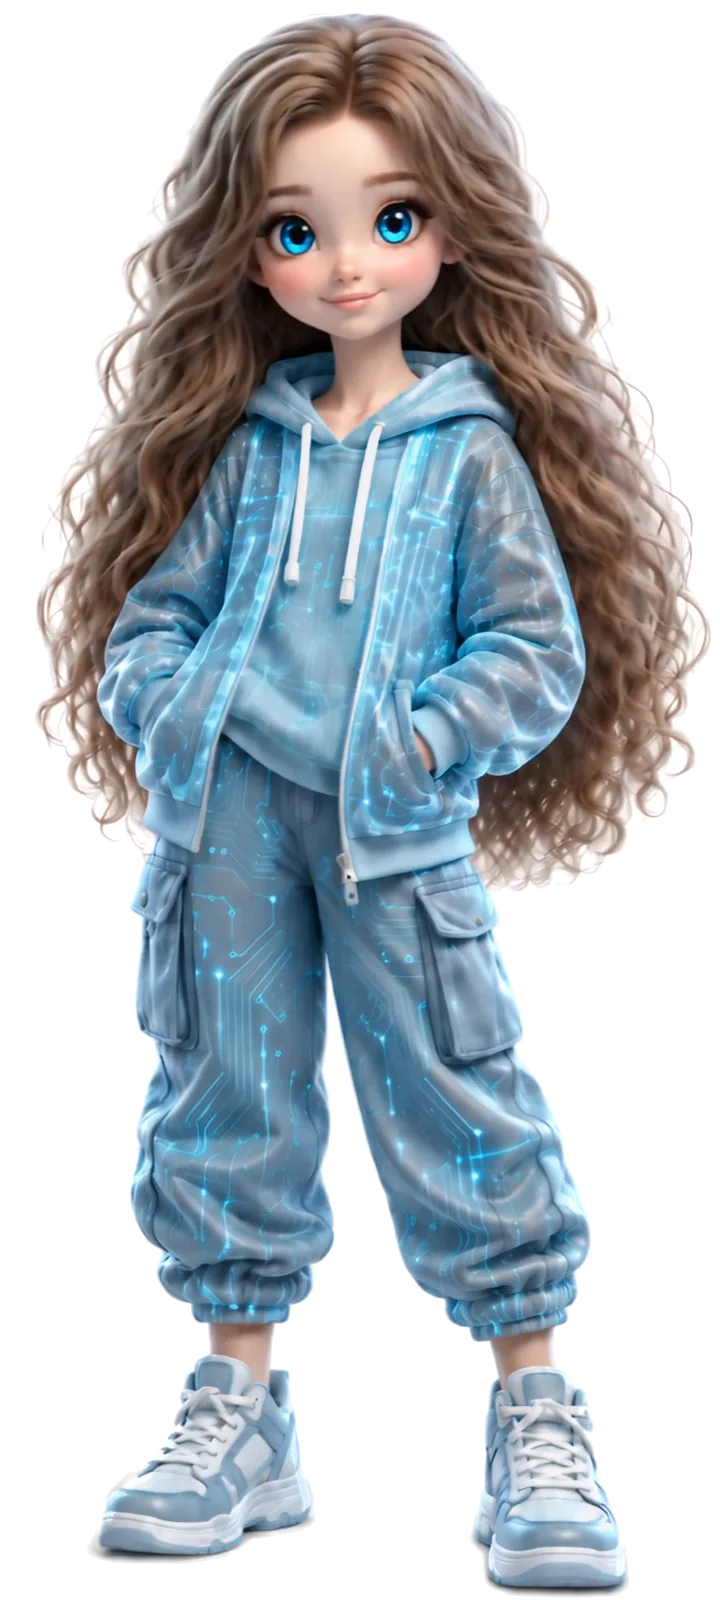
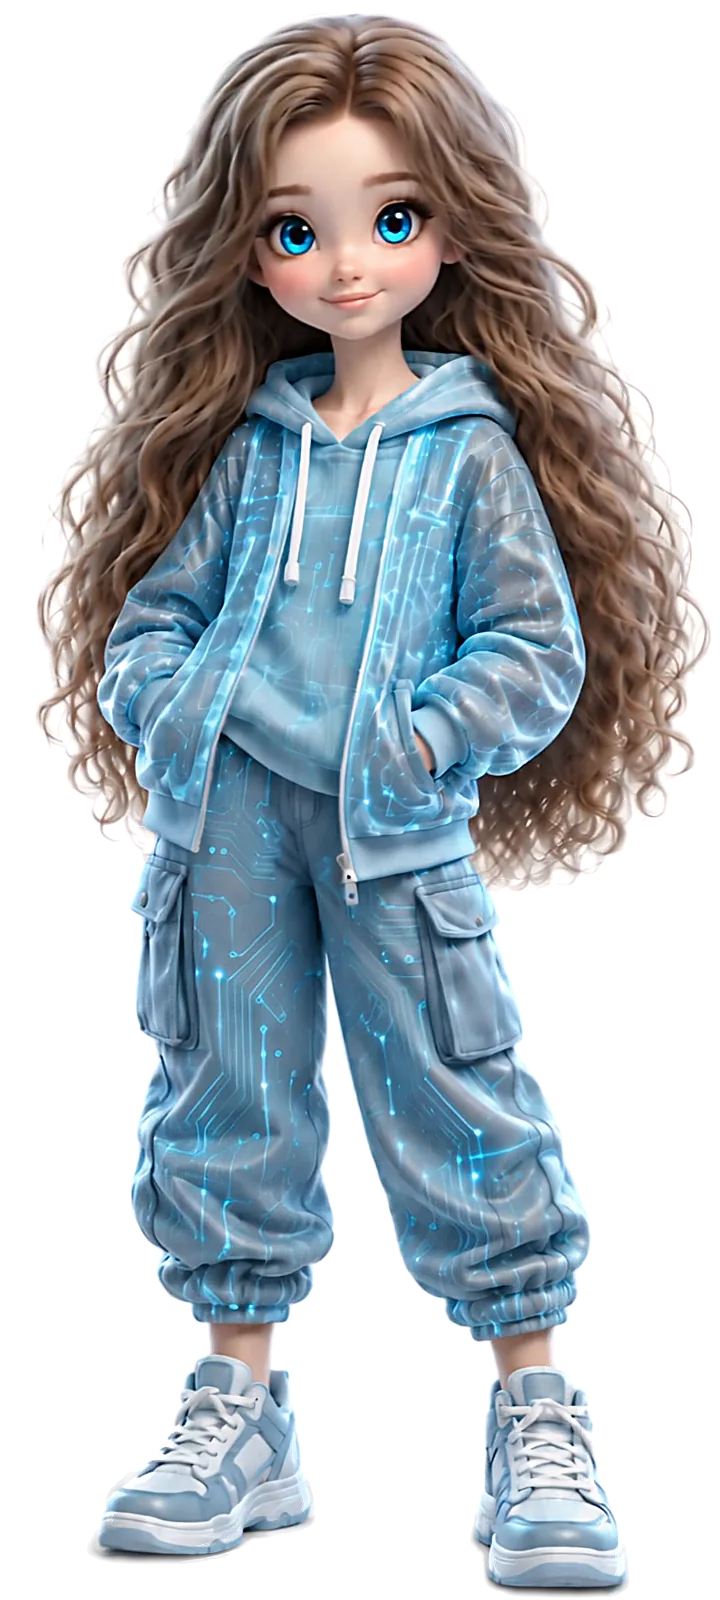
Обновление 02.10 08:10 МСК

diff --git a/index.html b/index.html
@@ -205,11 +205,14 @@
   .первый-экран--разворот .первый-экран__картинка img { object-fit: contain; object-position: bottom center;
     height: calc(100% - 5.25em); }
 }
-/* Холст слежения лежит ровно поверх картинки и повторяет её посадку. */
+/* Слои слежения лежат ровно поверх картинки и повторяют её посадку. */
 .первый-экран--разворот .первый-экран__картинка { position: relative; }
-.первый-экран--разворот .первый-экран__картинка .следит-холст {
-  position: absolute; inset: 0; width: 100%; height: 100%; pointer-events: none;
-}
+#экран-1 .следит-слои { position: absolute; pointer-events: none; }
+#экран-1 .следит-слои img { position: absolute; left: 0; top: 0; right: auto; bottom: auto; inset: 0 auto auto 0;
+  border-radius: 0; aspect-ratio: auto; width: 100%; height: auto;
+  max-width: none; object-fit: fill; -webkit-mask-image: none; mask-image: none;
+  opacity: 0; will-change: opacity; }
+#экран-1 .следит-слои .следит-тело { opacity: 1; }
 /* Холст следа лежит поверх всего первого экрана и ничего не перехватывает. */
 .блок--первый-экран .след-холст {
   position: absolute; inset: 0; width: 100%; height: 100%;
@@ -219,106 +222,93 @@
 <script>
 /* Нейра поворачивает голову за курсором. Кадры сняты из ролика, фон с них снят, между собой они
    выровнены по ногам — фигура стоит на месте, двигается только голова.
-   Кадры рисуются на холсте поверх картинки: подмена `src` у картинки давала белые вспышки, пока
-   браузер готовил следующий кадр. Здесь все кадры заранее разобраны в память (`decode`), и смена
-   кадра — это одна отрисовка, без мерцания.
-   02.10.2026: кадры из большого ролика (720 × 1600 — втрое больше точек, чем было), анимация и на
-   телефоне. На компьютере голова идёт за мышью, на телефоне — за пальцем; когда никто не водит,
-   Нейра сама неспешно смотрит по сторонам. Экран ушёл из виду — цикл спит.
-   На телефоне кадров вдвое меньше (каждый второй): память телефона не резиновая, а перетекание
-   соседних кадров сглаживает шаг. При отключённых анимациях скрипт не включается вовсе. */
+   02.10.2026, вторая версия: не холст, а слои. Тело — одна картинка, головы — двадцать картинок
+   (верх кадра до пояса, низ плавно гаснет), все лежат друг на друге прозрачными. Поворот головы —
+   это только смена прозрачности двух соседних слоёв: её делает видеокарта, ничего не
+   перерисовывается, поэтому не подвисает и на слабом телефоне. Холст на каждом шаге заново
+   выкладывал два больших кадра — на телефоне это и давало заминки.
+   На компьютере голова идёт за мышью, на телефоне — за пальцем; когда никто не водит, Нейра сама
+   неспешно смотрит по сторонам. Экран ушёл из виду — цикл спит. При отключённых анимациях скрипт
+   не включается вовсе — лишние кадры не качаются. */
 (function () {
   var окно = document.querySelector('#экран-1 .первый-экран__картинка');
   var картинка = окно && окно.querySelector('img');
   if (!картинка) return;
-  var естьМышь = window.matchMedia('(hover: hover) and (pointer: fine)').matches;
   var покой = window.matchMedia('(prefers-reduced-motion: reduce)').matches;
   if (покой) return;
 
-  /* какие файлы берём: на компьютере все двадцать, на телефоне каждый второй (плюс последний) */
-  var файлы = [];
-  for (var ф = 1; ф <= 20; ф += (естьМышь ? 1 : 2)) { файлы.push(ф); }
-  if (файлы[файлы.length - 1] !== 20) { файлы.push(20); }
-  var ВСЕГО = файлы.length, СРЕДНИЙ = (ВСЕГО + 1) / 2;
-  var кадры = new Array(ВСЕГО + 1), готовы = false, показан = 0;
-  var холст = document.createElement('canvas');
-  холст.className = 'следит-холст';
-  холст.setAttribute('aria-hidden', 'true');
-  var кисть = холст.getContext('2d');
-  окно.appendChild(холст);
+  var ВСЕГО = 20, СРЕДНИЙ = (ВСЕГО + 1) / 2;
+  var КАДР_Ш = 720, КАДР_В = 1600;
+  var слои = document.createElement('div');
+  слои.className = 'следит-слои';
+  слои.setAttribute('aria-hidden', 'true');
+  var головы = new Array(ВСЕГО + 1), готовы = false, показан = 0, видны = [];
 
-  function номер(i) { var н = файлы[i - 1]; return 'img/следит/g' + (н < 10 ? '0' + н : н) + '.webp'; }
-
-  /* Холст ровно по фигуре, а не по всему окну: пустые поля по бокам не перерисовываются.
-     Посадка — как `object-fit: contain` у картинки, прижато к низу и по центру.
-     И не крупнее самих кадров (720 × 1600): кадр кладётся почти один в один, а до размера
-     на экране его растягивает сам браузер — это почти бесплатно. */
-  var КАДР_Ш = 720, КАДР_В = 1600, прежняяПосадка = '';
+  /* Слои ровно по фигуре: посадка как `object-fit: contain` у картинки — по центру, прижато к низу.
+     Меряем саму картинку, а не окно: на телефоне она ниже окна (см. стили выше). */
+  var прежняяПосадка = '';
   function размер() {
-    var точка = Math.min(3, window.devicePixelRatio || 1);
-    /* меряем саму картинку, а не окно: на телефоне она ниже окна (см. стили выше) */
     var ш = картинка.offsetWidth, в = картинка.offsetHeight;
-    var лево = картинка.offsetLeft, верх = картинка.offsetTop;
     if (!ш || !в) return false;
     var вписать = Math.min(ш / КАДР_Ш, в / КАДР_В);
     var рш = КАДР_Ш * вписать, рв = КАДР_В * вписать;
-    var доля = Math.min(1, КАДР_В / (рв * точка));
-    var нш = Math.round(рш * точка * доля), нв = Math.round(рв * точка * доля);
-    var посадка = 'left:' + (лево + (ш - рш) / 2) + 'px;top:' + (верх + в - рв) + 'px;width:' + рш + 'px;height:' + рв + 'px';
-    if (холст.width !== нш || холст.height !== нв) { холст.width = нш; холст.height = нв; }
-    if (посадка !== прежняяПосадка) { холст.style.cssText = посадка; прежняяПосадка = посадка; }
+    var посадка = 'left:' + (картинка.offsetLeft + (ш - рш) / 2) + 'px;top:' + (картинка.offsetTop + в - рв) +
+                  'px;width:' + рш + 'px;height:' + рв + 'px';
+    if (посадка !== прежняяПосадка) { слои.style.cssText = посадка; прежняяПосадка = посадка; }
     return true;
   }
 
-  function положить(кадр, альфа) {
-    кисть.globalAlpha = альфа;
-    кисть.drawImage(кадр, 0, 0, холст.width, холст.height);
-    кисть.globalAlpha = 1;
-  }
-
-  /* Рисуем не один кадр, а два соседних, смешивая их по дробной части: кадров двадцать,
-     и на переключении встык голова шла ступеньками. */
+  /* Два соседних слоя: нижний целиком, верхний — по дробной части. Остальные прозрачны. */
   function нарисовать(место) {
     if (!размер()) return;
     var низ = Math.max(1, Math.min(ВСЕГО, Math.floor(место)));
     var верх = Math.max(1, Math.min(ВСЕГО, низ + 1));
     var доля = Math.max(0, Math.min(1, место - низ));
-    /* почти целый кадр — кладём один, без подмешивания: на глаз неотличимо, а работы вдвое меньше */
-    if (доля > 0.94) { низ = верх; доля = 0; }
-    var а = кадры[низ], б = кадры[верх];
-    if (!а) return;
-    /* «copy» заменяет холст целиком одним проходом — отдельная очистка не нужна */
-    кисть.globalCompositeOperation = 'copy';
-    положить(а, 1);
-    кисть.globalCompositeOperation = 'source-over';
-    if (б && доля > 0.06 && верх !== низ) { положить(б, доля); }
+    var нужно = {};
+    нужно[низ] = 1;
+    if (верх !== низ && доля > 0.02) { нужно[верх] = Math.round(доля * 100) / 100; }
+    for (var i = 0; i < видны.length; i++) {
+      if (!(видны[i] in нужно)) { головы[видны[i]].style.opacity = '0'; }
+    }
+    видны = [];
+    for (var н in нужно) { головы[н].style.opacity = String(нужно[н]); видны.push(+н); }
     показан = место;
   }
 
-  /* Каждый кадр один раз кладём на холст ещё до показа: видеокарта забирает его к себе сразу,
-     а не на первом повороте головы — без этого первый проход давал заминки по 80 мс. */
-  function прогреть() {
-    if (!размер()) return;
-    for (var i = 1; i <= ВСЕГО; i++) { if (кадры[i]) { положить(кадры[i], 1); } }
-  }
+  function номер(i) { return 'img/следит/h' + (i < 10 ? '0' + i : i) + '.webp'; }
 
-  /* Кадры тянем после показа страницы: первый экран их не ждёт. Каждый ещё и разбираем в память
-     (`decode`), чтобы первая отрисовка не подвисала. */
+  /* Слои тянем после показа страницы: первый экран их не ждёт. Каждый ещё и разбираем в память
+     (`decode`), чтобы первая смена не подвисала. Показываем только когда готовы все. */
   function подтянуть() {
-    var осталось = ВСЕГО;
+    var всего = ВСЕГО + 1, осталось = всего, сломано = false;
+    function одна(им) {
+      var дальше = им.decode ? им.decode().catch(function () {}) : Promise.resolve();
+      дальше.then(function () {
+        if (--осталось === 0 && !сломано) {
+          окно.appendChild(слои);
+          размер();
+          нарисовать(сейчас);
+          готовы = true;
+          картинка.style.opacity = '0';
+          разбудить();
+        }
+      });
+    }
+    var тело = new Image();
+    тело.className = 'следит-тело';
+    тело.alt = '';
+    тело.onload = function () { одна(тело); };
+    тело.onerror = function () { сломано = true; };
+    тело.src = 'img/следит/тело.webp';
+    слои.appendChild(тело);
     for (var i = 1; i <= ВСЕГО; i++) {
-      (function (н) {
-        var им = new Image();
-        им.onload = function () {
-          var дальше = им.decode ? им.decode().catch(function () {}) : Promise.resolve();
-          дальше.then(function () {
-            кадры[н] = им;
-            if (--осталось === 0) { прогреть(); готовы = true; нарисовать(сейчас); картинка.style.opacity = '0'; разбудить(); }
-          });
-        };
-        им.onerror = function () { if (--осталось === 0) { готовы = true; } };
-        им.src = номер(н);
-      })(i);
+      var им = new Image();
+      им.alt = '';
+      им.onload = (function (э) { return function () { одна(э); }; })(им);
+      им.onerror = function () { сломано = true; };
+      им.src = номер(i);
+      головы[i] = им;
+      слои.appendChild(им);
     }
   }
   if (document.readyState === 'complete') { подтянуть(); }
@@ -341,8 +331,7 @@
     var самаСобой = готовы && t - последнийВвод > ПОКОЙ_МС;
     if (самаСобой) { цель = сама(t); }
     сейчас += (цель - сейчас) * (самаСобой ? 0.06 : 0.12);   /* запаздывание: голова догоняет */
-    /* сама поворачивается медленно — перерисовываем реже (шаг 0,06 кадра), за рукой — чаще */
-    if (готовы && Math.abs(сейчас - показан) > (самаСобой ? 0.06 : 0.02)) { нарисовать(сейчас); }
+    if (готовы && Math.abs(сейчас - показан) > 0.01) { нарисовать(сейчас); }
 
     var есть_искры = window.__нейраСлед ? window.__нейраСлед() : false;
     if (виден && (самаСобой || Math.abs(цель - сейчас) > 0.01 || есть_искры)) { requestAnimationFrame(шаг); }
